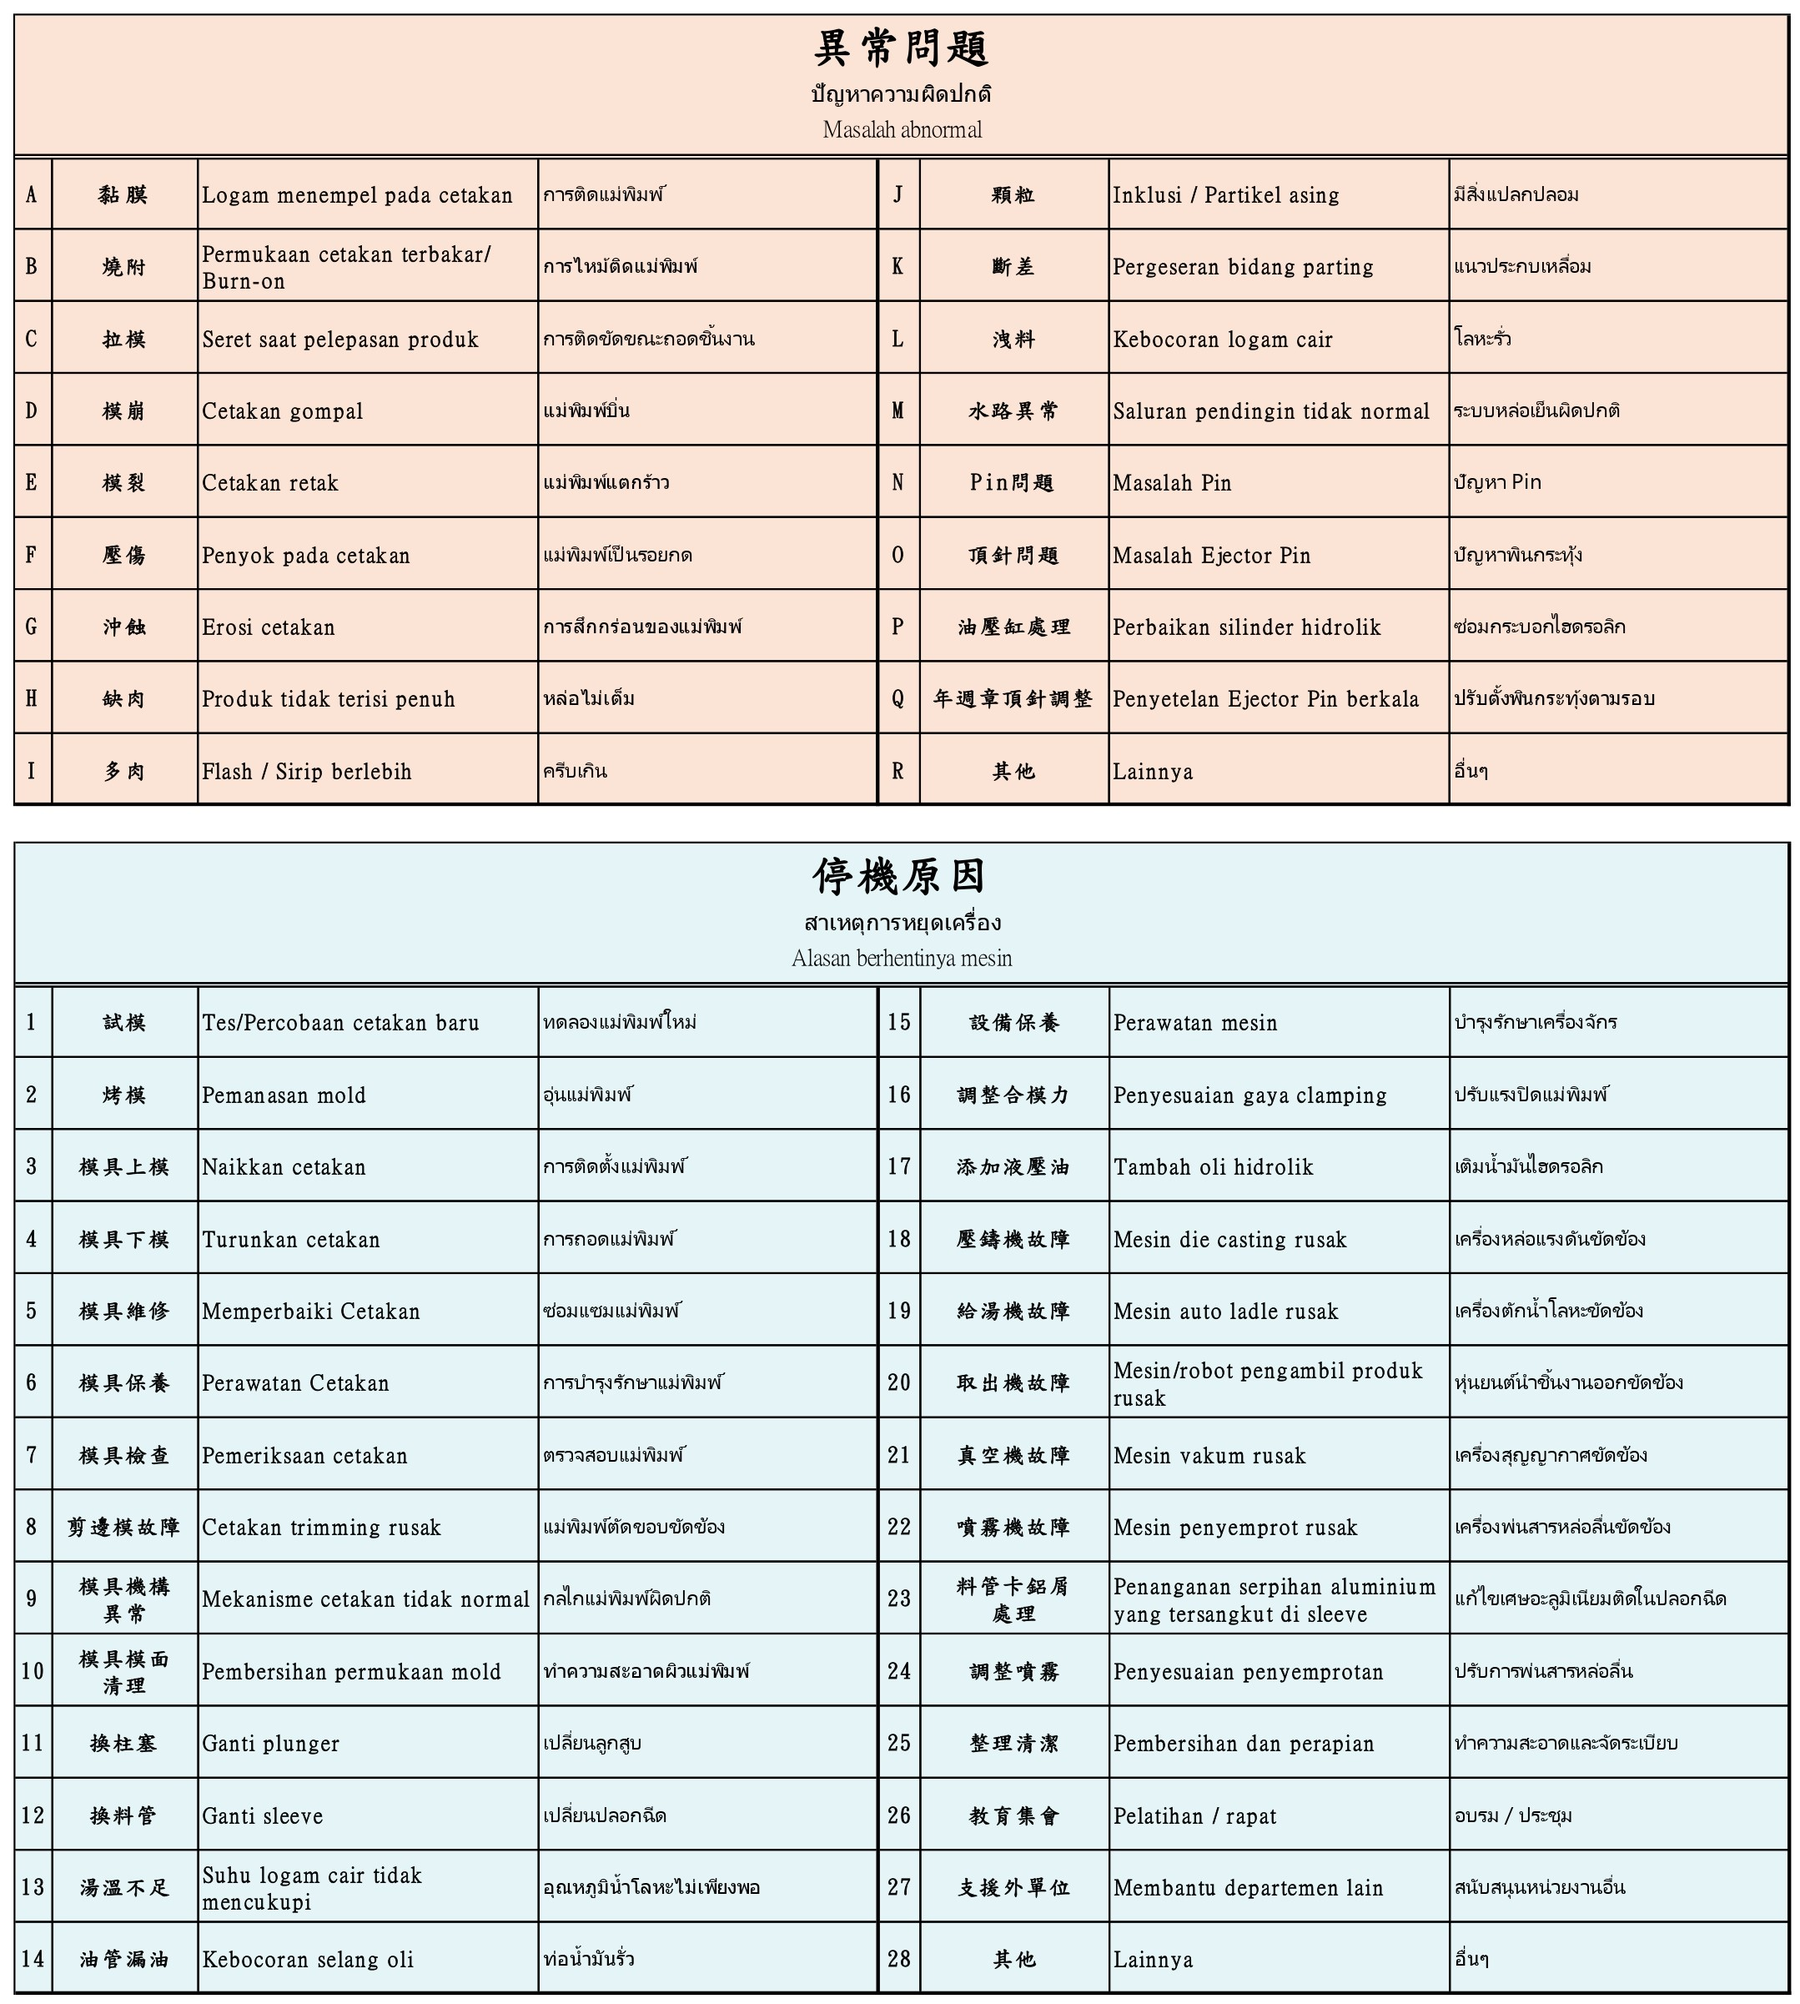
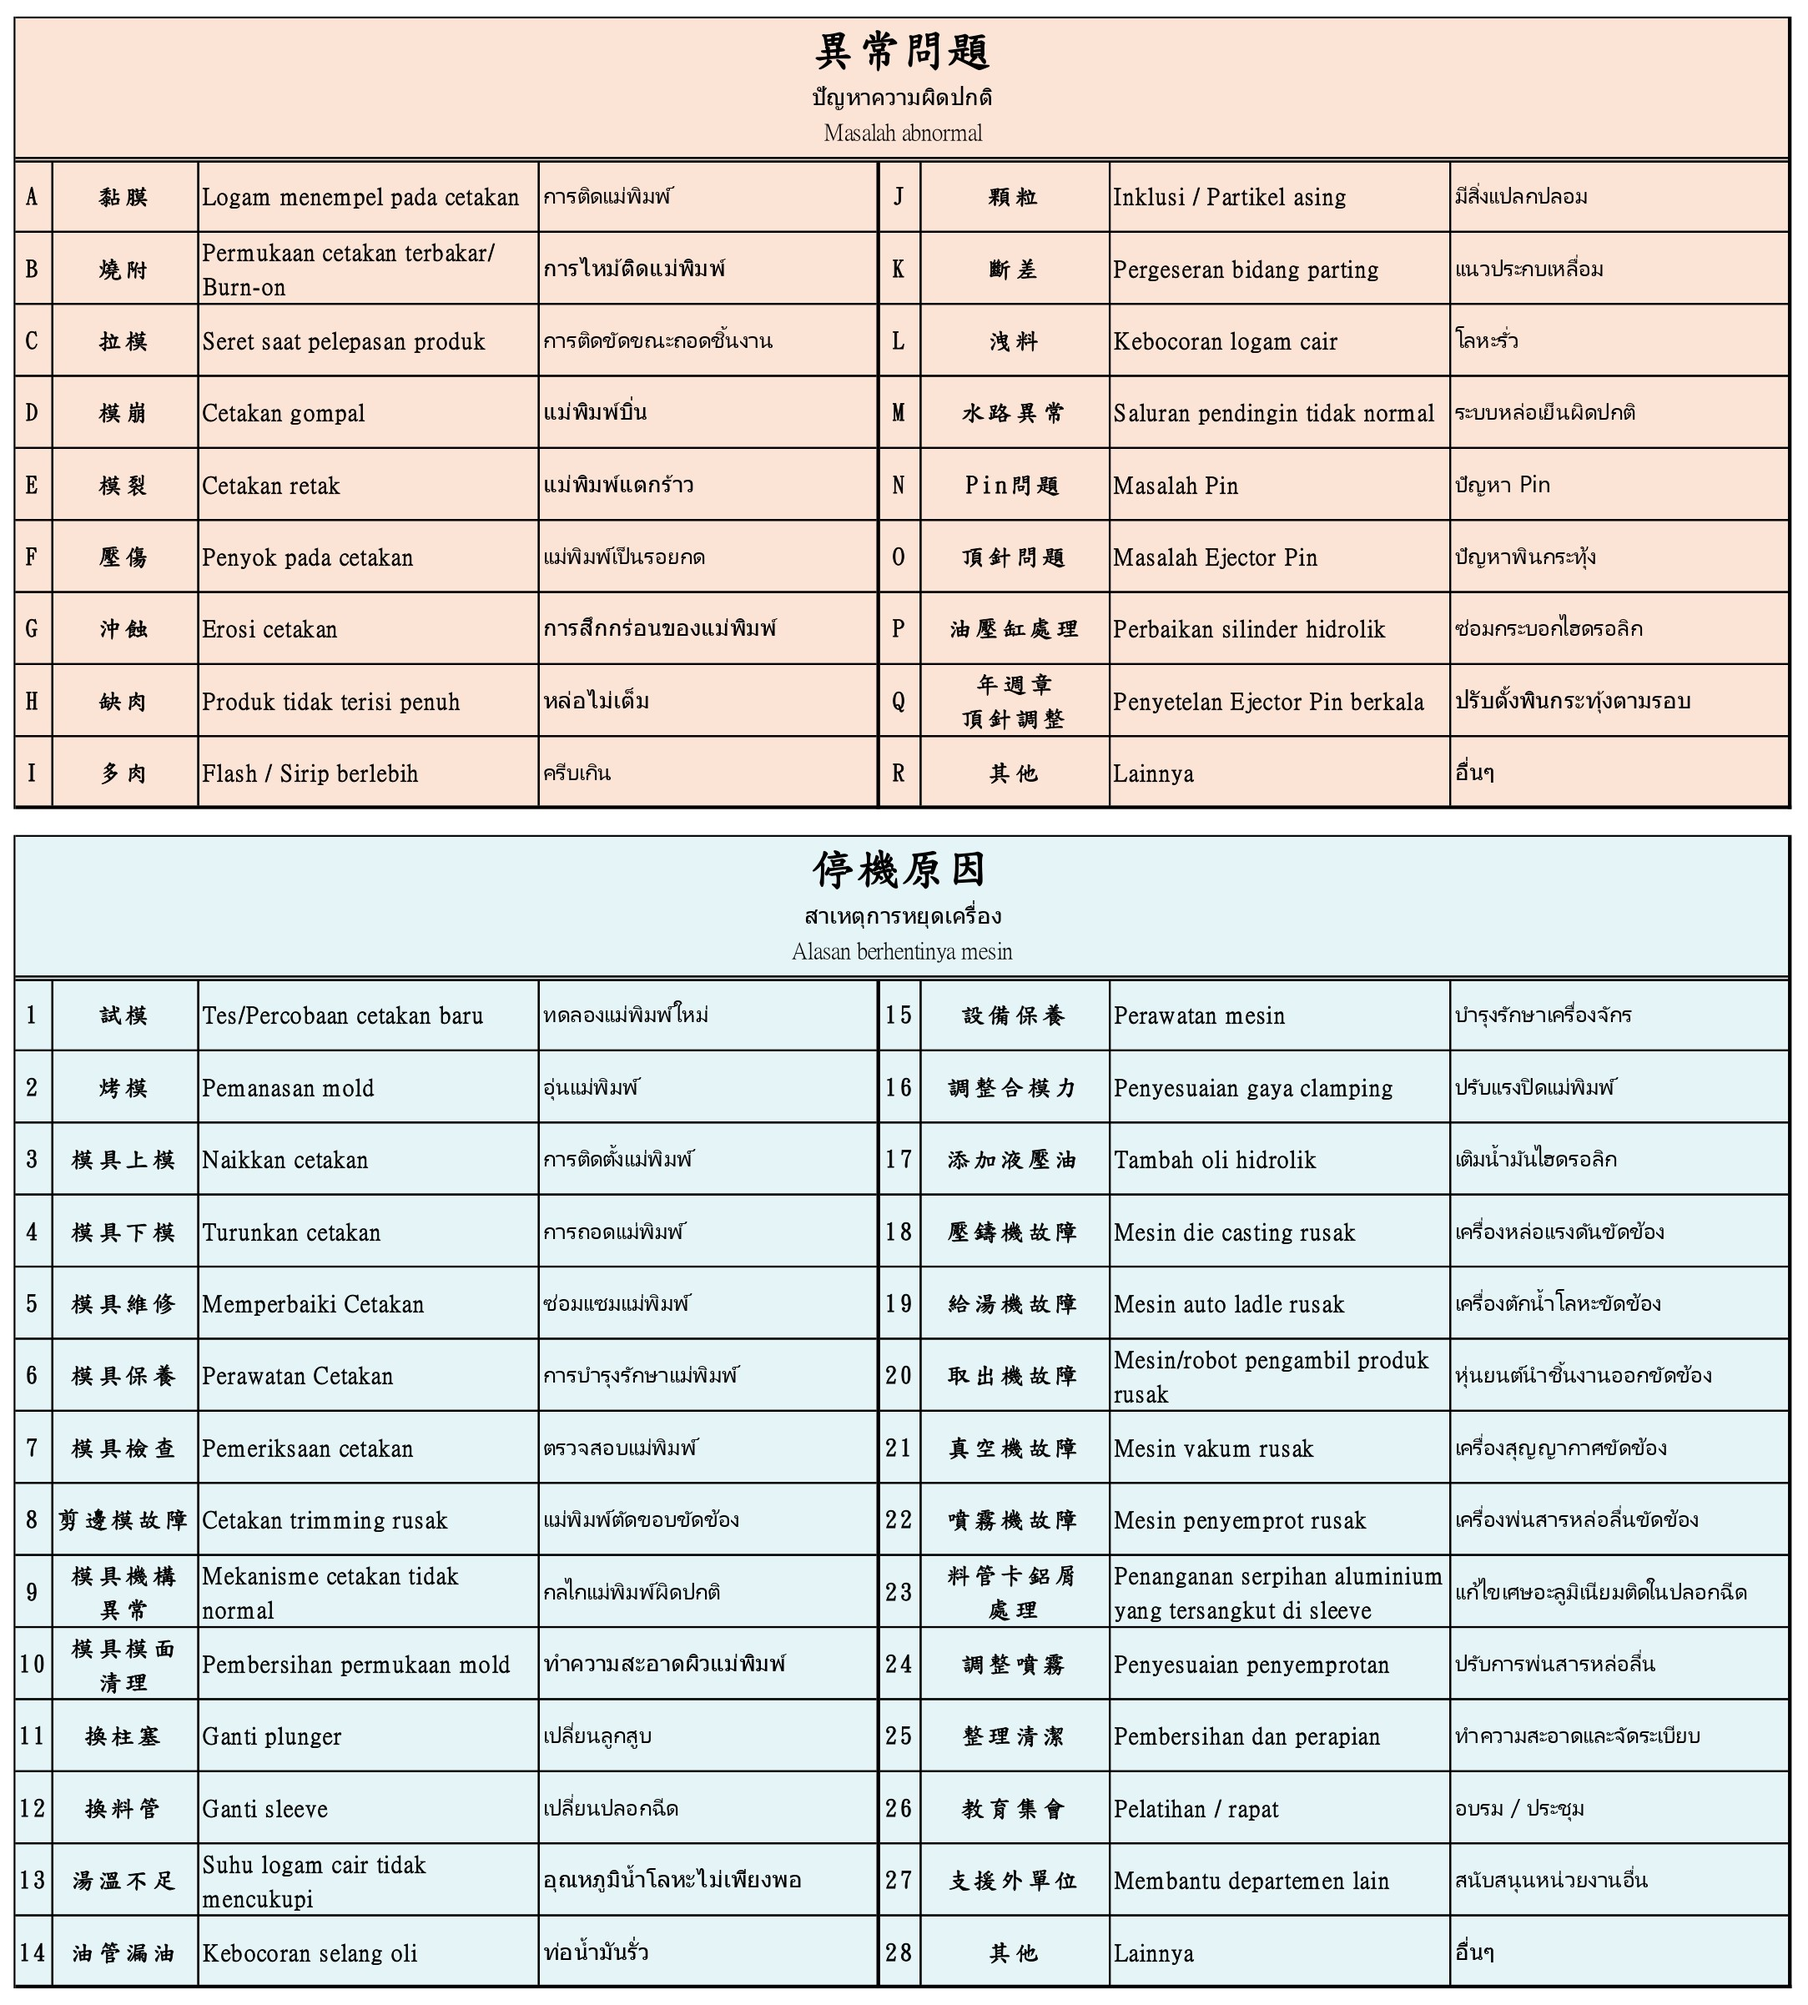
ver1 completed

Changed region(s): [[0.0, 0.0, 1.0, 0.9992]]

diff --git a/src/components/stopForm.vue b/src/components/stopForm.vue
@@ -164,6 +164,7 @@
               <div class="error-right" :style="{ visibility: errors.stopTime ? 'visible' : 'hidden' }">
                 {{ $t('dailysheet.required') }}
               </div>
+              <div class="ghost-spacer"></div>
             </div>
           </div>
         </div>
@@ -427,21 +428,27 @@ watch(
 
 .error-row {
   display: flex;
-  gap: 90px;
 }
 
 .error-left {
-  flex: 6;
+  flex: 1;
   font-size: 16px;
   color: #DF4E4E;
   text-align: center;
 }
 
 .error-right {
-  flex: 5;
+  flex: 1;
   font-size: 16px;
   color: #DF4E4E;
-  text-align: left;
+  text-align: center;
+}
+
+.ghost-spacer {
+  width: 44px; 
+  flex-shrink: 0; 
+  visibility: hidden; 
+  pointer-events: none;
 }
 
 .error-msg {

diff --git a/src/i18n.js b/src/i18n.js
@@ -12,6 +12,7 @@ import dailysheetTh from '@/locales/th/dailysheet.json'
 import commonId from '@/locales/id/common.json'
 import machineId from '@/locales/id/machine.json'
 import appearanceId from '@/locales/id/appearance.json'
+import dailysheetId from '@/locales/id/dailysheet.json'
 
 const i18n = createI18n({
   legacy: false,
@@ -33,7 +34,8 @@ const i18n = createI18n({
     'id': {
         common: commonId,
         machine: machineId,
-        appearance: appearanceId
+        appearance: appearanceId,
+        dailysheet: dailysheetId
     }
   }
 })
